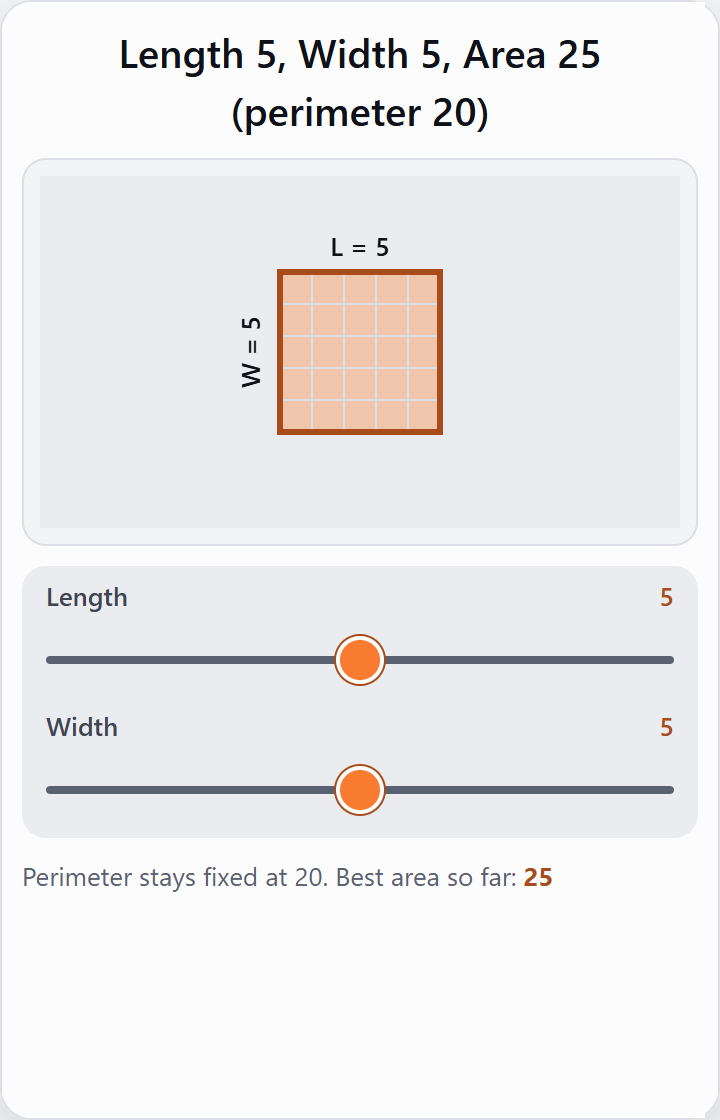
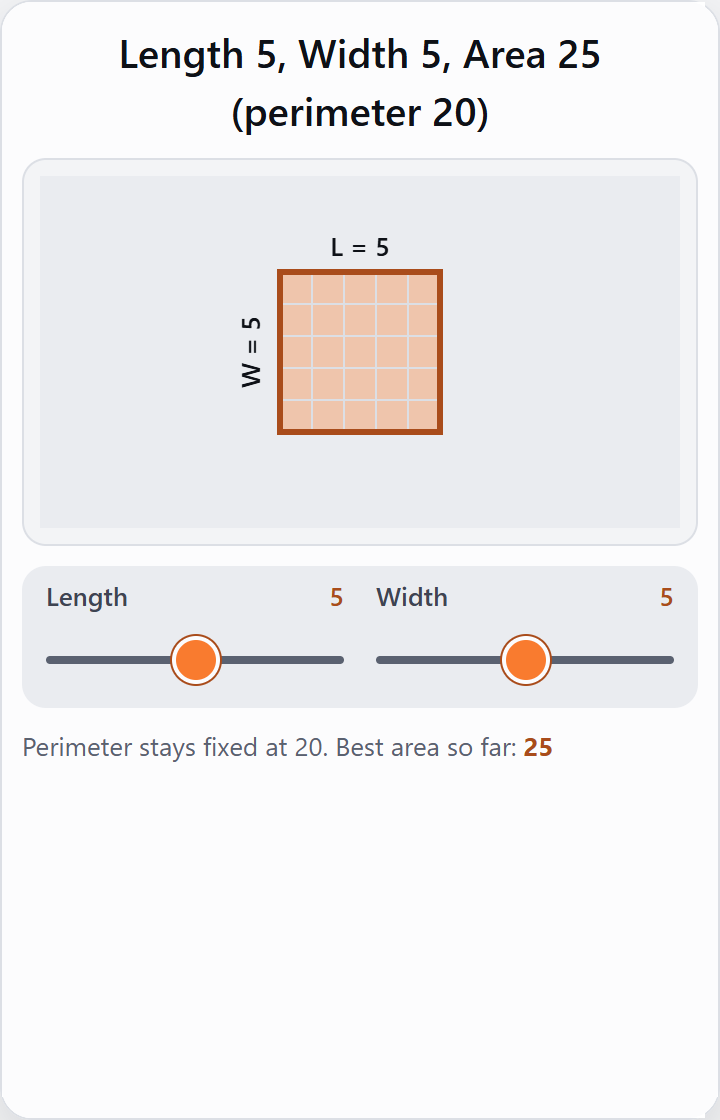
Fit widgets to the board card and keep their pictures truthful
Three controls share a row in the kit; the generator gets a real height budget and rules to show only what really happens and say each thing once; fixtures follow the budget; the frozen range() widget fits the card.

diff --git a/src/data/demo/python-for-range.ts b/src/data/demo/python-for-range.ts
@@ -223,7 +223,7 @@ export const lesson: LessonPayload = {
       "title": "range() on a number line",
       "markup": "<div class=\"stack\">\n  <div class=\"readout\" id=\"code\" aria-live=\"polite\">range(1, 5, 1)</div>\n  <div class=\"stage\"><canvas id=\"plot\" role=\"img\" aria-label=\"Number line showing the values produced by range\"></canvas></div>\n  <div class=\"row\">\n    <p class=\"readout\" id=\"list\" aria-live=\"polite\">[1, 2, 3, 4]</p>\n  </div>\n  <div class=\"controls\">\n    <div class=\"control\"><label for=\"start\">Start <span class=\"value\" id=\"startv\">1</span></label>\n      <input id=\"start\" type=\"range\" min=\"0\" max=\"20\" step=\"1\" value=\"1\"></div>\n    <div class=\"control\"><label for=\"stop\">Stop <span class=\"value\" id=\"stopv\">5</span></label>\n      <input id=\"stop\" type=\"range\" min=\"0\" max=\"20\" step=\"1\" value=\"5\"></div>\n    <div class=\"control\"><label for=\"step\">Step <span class=\"value\" id=\"stepv\">1</span></label>\n      <input id=\"step\" type=\"range\" min=\"1\" max=\"5\" step=\"1\" value=\"1\"></div>\n  </div>\n  <div class=\"row\">\n    <button type=\"button\" id=\"play\">Play dots</button>\n    <span class=\"hint\">stop is a boundary, never a dot</span>\n  </div>\n</div>\n",
       "css": "\n#code{text-align:center;font:600 16px ui-monospace,Menlo,Consolas,monospace}\n#list{text-align:center;font-size:14px;min-height:1.6em}\n",
-      "js": "\nvar C = ARISTO.colors;\nvar startIn = document.getElementById('start');\nvar stopIn = document.getElementById('stop');\nvar stepIn = document.getElementById('step');\nvar playBtn = document.getElementById('play');\n\nvar reduceMotion = (typeof matchMedia === 'function') && matchMedia('(prefers-reduced-motion: reduce)').matches;\n\nvar values = [];\nvar visibleCount = 0; // how many dots are currently shown (for animation)\nvar animId = null;\nvar playing = false;\n\nfunction computeValues() {\n  var start = +startIn.value;\n  var stop = +stopIn.value;\n  var step = +stepIn.value;\n  if (step < 1) step = 1;\n  var vals = [];\n  if (start < stop) {\n    for (var v = start; v < stop; v += step) {\n      vals.push(v);\n      if (vals.length > 200) break;\n    }\n  }\n  return vals;\n}\n\nvar MIN = 0, MAX = 20;\n\nvar plot = ARISTO.canvas(document.getElementById('plot'), function (ctx, w, h) {\n  var start = +startIn.value;\n  var stop = +stopIn.value;\n  var step = +stepIn.value;\n  var pad = 20;\n  var usableW = w - pad * 2;\n  var oy = h * 0.55;\n\n  function X(n) { return pad + (n - MIN) / (MAX - MIN) * usableW; }\n\n  // baseline\n  ctx.strokeStyle = C.muted;\n  ctx.lineWidth = 1.5;\n  ctx.beginPath();\n  ctx.moveTo(X(MIN), oy);\n  ctx.lineTo(X(MAX), oy);\n  ctx.stroke();\n\n  // tick marks every 2 units, labels every 4\n  ctx.fillStyle = C.muted;\n  ctx.font = '12px system-ui, sans-serif';\n  ctx.textAlign = 'center';\n  for (var n = MIN; n <= MAX; n += 2) {\n    var x = X(n);\n    ctx.beginPath();\n    ctx.moveTo(x, oy - 5);\n    ctx.lineTo(x, oy + 5);\n    ctx.stroke();\n    if (n % 4 === 0) {\n      ctx.fillText(String(n), x, oy + 20);\n    }\n  }\n\n  // stop boundary line\n  var stopX = X(stop);\n  ctx.strokeStyle = C.danger;\n  ctx.lineWidth = 2;\n  ctx.setLineDash([4, 4]);\n  ctx.beginPath();\n  ctx.moveTo(stopX, oy - 28);\n  ctx.lineTo(stopX, oy + 28);\n  ctx.stroke();\n  ctx.setLineDash([]);\n  ctx.fillStyle = C.danger;\n  ctx.font = '600 12px system-ui, sans-serif';\n  ctx.fillText('stop', stopX, oy - 34);\n\n  // dots for produced values\n  var shown = Math.min(visibleCount, values.length);\n  for (var i = 0; i < values.length; i++) {\n    var val = values[i];\n    var x2 = X(val);\n    var isShown = i < shown;\n    var isLast = i === shown - 1;\n    ctx.beginPath();\n    ctx.arc(x2, oy, isLast ? 8 : 6, 0, Math.PI * 2);\n    ctx.fillStyle = isShown ? (isLast ? C.accentText : C.accent) : C.sunk;\n    ctx.globalAlpha = isShown ? 1 : 0.3;\n    ctx.fill();\n    ctx.globalAlpha = 1;\n    if (isShown) {\n      ctx.fillStyle = C.ink;\n      ctx.font = '12px system-ui, sans-serif';\n      ctx.fillText(String(val), x2, oy - 14);\n    }\n  }\n}, 0.5);\n\nfunction fmt() {\n  var start = +startIn.value;\n  var stop = +stopIn.value;\n  var step = +stepIn.value;\n  document.getElementById('startv').textContent = String(start);\n  document.getElementById('stopv').textContent = String(stop);\n  document.getElementById('stepv').textContent = String(step);\n  document.getElementById('code').textContent = 'range(' + start + ', ' + stop + ', ' + step + ')';\n  var shown = Math.min(visibleCount, values.length);\n  var shownVals = values.slice(0, shown);\n  document.getElementById('list').textContent = '[' + shownVals.join(', ') + ']' +\n    (shown < values.length ? ' ...' : '');\n}\n\nfunction stopAnim() {\n  playing = false;\n  if (animId !== null) { cancelAnimationFrame(animId); animId = null; }\n  playBtn.textContent = 'Play dots';\n}\n\nfunction rebuild(startAnimated) {\n  stopAnim();\n  values = computeValues();\n  visibleCount = values.length; // default: show all immediately\n  fmt();\n  plot.redraw();\n}\n\nvar lastTime = 0;\nvar stepInterval = 450;\n\nfunction tick(ts) {\n  if (!lastTime) lastTime = ts;\n  if (ts - lastTime >= stepInterval) {\n    lastTime = ts;\n    visibleCount++;\n    fmt();\n    plot.redraw();\n    if (visibleCount >= values.length) {\n      stopAnim();\n      return;\n    }\n  }\n  animId = requestAnimationFrame(tick);\n}\n\nfunction startPlay() {\n  if (values.length === 0) return;\n  playing = true;\n  visibleCount = 0;\n  lastTime = 0;\n  playBtn.textContent = 'Pause';\n  fmt();\n  plot.redraw();\n  animId = requestAnimationFrame(tick);\n}\n\nplayBtn.addEventListener('click', function () {\n  if (playing) {\n    stopAnim();\n  } else {\n    startPlay();\n  }\n});\n\n[startIn, stopIn, stepIn].forEach(function (el) {\n  el.addEventListener('input', function () { rebuild(); });\n});\n\nrebuild();\nif (reduceMotion) {\n  // ensure fully visible, no autoplay\n  visibleCount = values.length;\n  fmt();\n  plot.redraw();\n}\n"
+      "js": "\nvar C = ARISTO.colors;\nvar startIn = document.getElementById('start');\nvar stopIn = document.getElementById('stop');\nvar stepIn = document.getElementById('step');\nvar playBtn = document.getElementById('play');\n\nvar reduceMotion = (typeof matchMedia === 'function') && matchMedia('(prefers-reduced-motion: reduce)').matches;\n\nvar values = [];\nvar visibleCount = 0; // how many dots are currently shown (for animation)\nvar animId = null;\nvar playing = false;\n\nfunction computeValues() {\n  var start = +startIn.value;\n  var stop = +stopIn.value;\n  var step = +stepIn.value;\n  if (step < 1) step = 1;\n  var vals = [];\n  if (start < stop) {\n    for (var v = start; v < stop; v += step) {\n      vals.push(v);\n      if (vals.length > 200) break;\n    }\n  }\n  return vals;\n}\n\nvar MIN = 0, MAX = 20;\n\nvar plot = ARISTO.canvas(document.getElementById('plot'), function (ctx, w, h) {\n  var start = +startIn.value;\n  var stop = +stopIn.value;\n  var step = +stepIn.value;\n  var pad = 20;\n  var usableW = w - pad * 2;\n  var oy = h * 0.55;\n\n  function X(n) { return pad + (n - MIN) / (MAX - MIN) * usableW; }\n\n  // baseline\n  ctx.strokeStyle = C.muted;\n  ctx.lineWidth = 1.5;\n  ctx.beginPath();\n  ctx.moveTo(X(MIN), oy);\n  ctx.lineTo(X(MAX), oy);\n  ctx.stroke();\n\n  // tick marks every 2 units, labels every 4\n  ctx.fillStyle = C.muted;\n  ctx.font = '12px system-ui, sans-serif';\n  ctx.textAlign = 'center';\n  for (var n = MIN; n <= MAX; n += 2) {\n    var x = X(n);\n    ctx.beginPath();\n    ctx.moveTo(x, oy - 5);\n    ctx.lineTo(x, oy + 5);\n    ctx.stroke();\n    if (n % 4 === 0) {\n      ctx.fillText(String(n), x, oy + 20);\n    }\n  }\n\n  // stop boundary line\n  var stopX = X(stop);\n  ctx.strokeStyle = C.danger;\n  ctx.lineWidth = 2;\n  ctx.setLineDash([4, 4]);\n  ctx.beginPath();\n  ctx.moveTo(stopX, oy - 28);\n  ctx.lineTo(stopX, oy + 28);\n  ctx.stroke();\n  ctx.setLineDash([]);\n  ctx.fillStyle = C.danger;\n  ctx.font = '600 12px system-ui, sans-serif';\n  ctx.fillText('stop', stopX, oy - 34);\n\n  // dots for produced values\n  var shown = Math.min(visibleCount, values.length);\n  for (var i = 0; i < values.length; i++) {\n    var val = values[i];\n    var x2 = X(val);\n    var isShown = i < shown;\n    var isLast = i === shown - 1;\n    ctx.beginPath();\n    ctx.arc(x2, oy, isLast ? 8 : 6, 0, Math.PI * 2);\n    ctx.fillStyle = isShown ? (isLast ? C.accentText : C.accent) : C.sunk;\n    ctx.globalAlpha = isShown ? 1 : 0.3;\n    ctx.fill();\n    ctx.globalAlpha = 1;\n    if (isShown) {\n      ctx.fillStyle = C.ink;\n      ctx.font = '12px system-ui, sans-serif';\n      ctx.fillText(String(val), x2, oy - 14);\n    }\n  }\n}, 0.3);\n\nfunction fmt() {\n  var start = +startIn.value;\n  var stop = +stopIn.value;\n  var step = +stepIn.value;\n  document.getElementById('startv').textContent = String(start);\n  document.getElementById('stopv').textContent = String(stop);\n  document.getElementById('stepv').textContent = String(step);\n  document.getElementById('code').textContent = 'range(' + start + ', ' + stop + ', ' + step + ')';\n  var shown = Math.min(visibleCount, values.length);\n  var shownVals = values.slice(0, shown);\n  document.getElementById('list').textContent = '[' + shownVals.join(', ') + ']' +\n    (shown < values.length ? ' ...' : '');\n}\n\nfunction stopAnim() {\n  playing = false;\n  if (animId !== null) { cancelAnimationFrame(animId); animId = null; }\n  playBtn.textContent = 'Play dots';\n}\n\nfunction rebuild(startAnimated) {\n  stopAnim();\n  values = computeValues();\n  visibleCount = values.length; // default: show all immediately\n  fmt();\n  plot.redraw();\n}\n\nvar lastTime = 0;\nvar stepInterval = 450;\n\nfunction tick(ts) {\n  if (!lastTime) lastTime = ts;\n  if (ts - lastTime >= stepInterval) {\n    lastTime = ts;\n    visibleCount++;\n    fmt();\n    plot.redraw();\n    if (visibleCount >= values.length) {\n      stopAnim();\n      return;\n    }\n  }\n  animId = requestAnimationFrame(tick);\n}\n\nfunction startPlay() {\n  if (values.length === 0) return;\n  playing = true;\n  visibleCount = 0;\n  lastTime = 0;\n  playBtn.textContent = 'Pause';\n  fmt();\n  plot.redraw();\n  animId = requestAnimationFrame(tick);\n}\n\nplayBtn.addEventListener('click', function () {\n  if (playing) {\n    stopAnim();\n  } else {\n    startPlay();\n  }\n});\n\n[startIn, stopIn, stepIn].forEach(function (el) {\n  el.addEventListener('input', function () { rebuild(); });\n});\n\nrebuild();\nif (reduceMotion) {\n  // ensure fully visible, no autoplay\n  visibleCount = values.length;\n  fmt();\n  plot.redraw();\n}\n"
     }
   }
 };

diff --git a/src/lib/agents/interactive.ts b/src/lib/agents/interactive.ts
@@ -48,7 +48,7 @@ function example(i: number): string {
 const SYSTEM_PROMPT = `You write one small interactive page that helps a grade 6 to 8 learner understand a topic by changing an input and watching the result. A teacher avatar talks while the learner plays, so the page itself carries almost no text. Return it by calling deliver_interactive.
 
 WHERE IT RUNS
-- A sandboxed iframe on the learner's screen. On a laptop it is about 340 px wide and 330 px tall; the large view is up to 900 px wide. The picture AND every control must be visible without scrolling at 340 x 330, so keep the picture short (a canvas ratio of 0.5 to 0.6) and use at most 3 controls in a row or grid.
+- A sandboxed iframe on the learner's screen. On a laptop it is about 380 px wide and 370 px tall; the large view is up to 900 px wide. The picture AND every control must be visible without scrolling at 380 x 370. Budget it: a one-line readout (about 30 px), the picture, one .controls block (about 80 px; up to 3 controls share its row), at most one button row (about 50 px), at most one hint line, 10 px between blocks. That leaves the picture about 150 px at 360 px wide: give the canvas the ratio its content needs, 0.3 for a number line or a single row of shapes, at most 0.45 for a graph or a diagram.
 - No network, no storage, no cookies, no external files, no fonts, no libraries. Plain HTML, CSS and JavaScript only. Draw with <canvas> or inline SVG, or build the picture from divs.
 - Every colour comes from the kit (below). Never write a hex colour.
 
@@ -63,6 +63,8 @@ WHAT TO BUILD
 - Show a live text readout (class readout or value) that says the current numbers or state in words, in an element with aria-live="polite". Give every canvas role="img" and an aria-label.
 - The first thing the learner sees must already be meaningful: start at the spec's starting state, never empty.
 - One idea only. No paragraphs of instruction: at most one short hint line. The teacher explains.
+- Say each thing once: a button's own text is its label, so never put the same words in a label above it; the readout states the current state without repeating itself ("2/4 of the pizza", not "1/2 of the pizza (same as 1/2)").
+- Show only what really happens. A picture of code or of a process must follow its real semantics step by step: never mark as tested, run or true anything the language or process skips (an elif or else after a branch has run, a loop body after its condition is false, a later case after a match). A learner trusts the picture more than the words, so a wrong mark teaches the misconception the lesson is fighting.
 - The maths and the code must be correct. Clamp ranges, avoid dividing by zero, round displayed numbers sensibly. Text on a canvas is at least 12 px and never overlaps other text.
 - Animation only when it teaches, driven by requestAnimationFrame, bounded, with a Pause button and no autoplay when matchMedia('(prefers-reduced-motion: reduce)').matches.
 - Keep the whole answer under 24,000 characters.

diff --git a/src/lib/agents/teaching.ts b/src/lib/agents/teaching.ts
@@ -227,7 +227,7 @@ Do NOT set it for facts, definitions, history, vocabulary, or anything the words
 When you set it:
   • goal: the one thing the learner should see for themselves.
   • brief: what the picture shows and how it responds (axes, ranges, starting values), concrete enough to build from.
-  • controls: 1–5, each with a short visible label (40 characters or fewer), a kind (slider, toggle, stepper, choice) and its effect. The picture and every control must fit a space about 340 px wide and 330 px tall, so prefer 2 or 3.
+  • controls: 1–5, each with a short visible label (40 characters or fewer), a kind (slider, toggle, stepper, choice) and its effect. The picture and every control must fit a space about 380 px wide and 370 px tall, so prefer 2 or 3.
   • try_this: 1–3 short prompts ("Make the slope negative.").
   • Add EXACTLY ONE segment with role "explore", in the demonstrate phase, after the segment that sets up the idea. Its text introduces the board in 1–2 sentences and names the first control by its exact label, for example "Try the Slope (m) slider on the board and watch the line." The lesson pauses on it until the learner presses Continue, so put it where playing helps, never as the last segment of the lesson, and give it no visual.
   • The segments after it must still make sense whether or not the learner played.

diff --git a/src/lib/interactive/fixtures.ts b/src/lib/interactive/fixtures.ts
@@ -73,7 +73,7 @@ var plot = ARISTO.canvas(document.getElementById('plot'), function (ctx, w, h) {
   ctx.fillText('rise ' + fmt(m), X(1) + 7, Y(b + m / 2) + 4);
 
   ctx.fillStyle = C.accentText; ctx.beginPath(); ctx.arc(X(0), Y(b), 6, 0, Math.PI * 2); ctx.fill();
-}, 0.55);
+}, 0.45);
 
 function update() {
   var m = +mIn.value, b = +bIn.value;
@@ -212,7 +212,7 @@ const forLoop: InteractiveFixture = {
     <label for="n">Loop count (n) <span class="value" id="nv"></span></label>
     <input id="n" type="range" min="1" max="6" step="1" value="3"></div></div>
 </div>`,
-    css: `.code{margin:0;padding:8px 10px;background:var(--bg);border:1px solid var(--line);border-radius:12px;font:14px/1.5 ui-monospace,Menlo,Consolas,monospace;color:var(--body);overflow-x:auto}
+    css: `.code{margin:0;padding:8px 10px;background:var(--bg);border:1px solid var(--line);border-radius:12px;font:14px/1.4 ui-monospace,Menlo,Consolas,monospace;color:var(--body);overflow-x:auto}
 .code .ln{display:block;border-radius:6px;padding:0 6px}
 .code .ln.on{background:var(--accent-text);color:var(--surface)}
 .vars{gap:8px}

diff --git a/src/lib/interactive/shell.ts b/src/lib/interactive/shell.ts
@@ -94,7 +94,7 @@ p{margin:0 0 8px;color:var(--body)}
 .row{display:flex;flex-wrap:wrap;align-items:center;gap:10px}
 .stage{background:var(--bg);border:1px solid var(--line);border-radius:12px;padding:8px;overflow:hidden}
 .stage canvas,.stage svg{display:block;width:100%;height:auto}
-.controls{display:grid;grid-template-columns:repeat(auto-fit,minmax(150px,1fr));gap:2px 16px;background:var(--sunk);border-radius:12px;padding:6px 12px 2px}
+.controls{display:grid;grid-template-columns:repeat(auto-fit,minmax(100px,1fr));gap:2px 16px;background:var(--sunk);border-radius:12px;padding:6px 12px 2px}
 .control{display:flex;flex-direction:column;gap:0;min-width:0}
 .control>label,.control>.label{font-size:13px;font-weight:600;color:var(--body);display:flex;justify-content:space-between;gap:8px}
 .value{font-variant-numeric:tabular-nums;color:var(--accent-text);font-weight:600}
